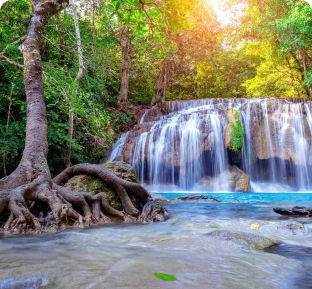
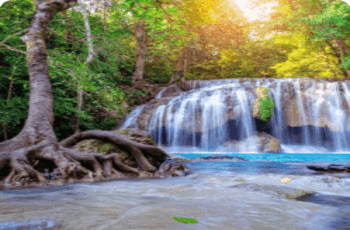
comit

diff --git a/src/Components/Destination/Destination.jsx b/src/Components/Destination/Destination.jsx
@@ -4,7 +4,6 @@ import image_2 from '../Destination/image2.png';
 import image_3 from '../Destination/image3.png';
 import image_4 from '../Destination/image4.png';
 import image_5 from '../Destination/image5.png'
-import image_6 from '../Destination/image6.png'
 import image_7 from '../Destination/image7.png'
 import image_8 from '../Destination/image8.png'
 
@@ -20,19 +19,19 @@ const Navlinks = [
 function Destination() {
   const renderCard = (image, location, place, days, price) => (
     <div className='flex flex-col items-start  border rounded-lg px-1 py-1 mt-4'>
-      <img src={image} alt="" className='w-auto   h-60 object-cover rounded-t-lg' />
-      <div className=' w-64  pb-2 mt-2'>
+      <img src={image} alt="" className='w-auto   h-36 object-cover rounded-t-lg' />
+      <div className=' w-40  pb-2 mt-2'>
         <div className='flex justify-between items-center w-full text-sm'>
           <div className='flex items-center'>
             <FaMapMarkerAlt className='mr-1 text-orange-500' />
             <p>{location}</p>
           </div>
-          <div className='flex items-center'>
+          <div className='flex items-center mr-1'>
             <FaStar className='text-yellow-500 mr-1' />
             <span>4.7</span>
           </div>
         </div>
-        <p className='mt-2 pl-2 text-start text-md font-bold'>{place}</p>
+        <p className='mt-3 pl-2 text-start text-md font-bold'>{place}</p>
         <p className='mt-2 pl-2 text-start text-sm'>{days}</p>
         <div className='flex items-center'>
           <p className='text-orange-500 font-bold text-2xl pl-2'>{price}</p>
@@ -74,7 +73,7 @@ function Destination() {
       {/* Repeat the cards with some space below */}
       <div className='grid grid-cols-1 md:grid-cols-4 gap-4 mt-2'>
         {renderCard(image_5, "Maldives", "Huruwalhi", "7 Days Tour on 2 person", "$620")}
-        {renderCard(image_6, "Indonesia", "Bali Province", "4 Days 2 person", "$780")}
+        {renderCard(image_2, "Indonesia", "Bali Province", "4 Days 2 person", "$780")}
         {renderCard(image_7, "Spain", "Barcelona City Beach", "4 Days Tour on 4 person", "$850")}
         {renderCard(image_8, "Maldives", "Huruwalhi", "7 Days Tour on 2 person", "$620")}
       </div>
